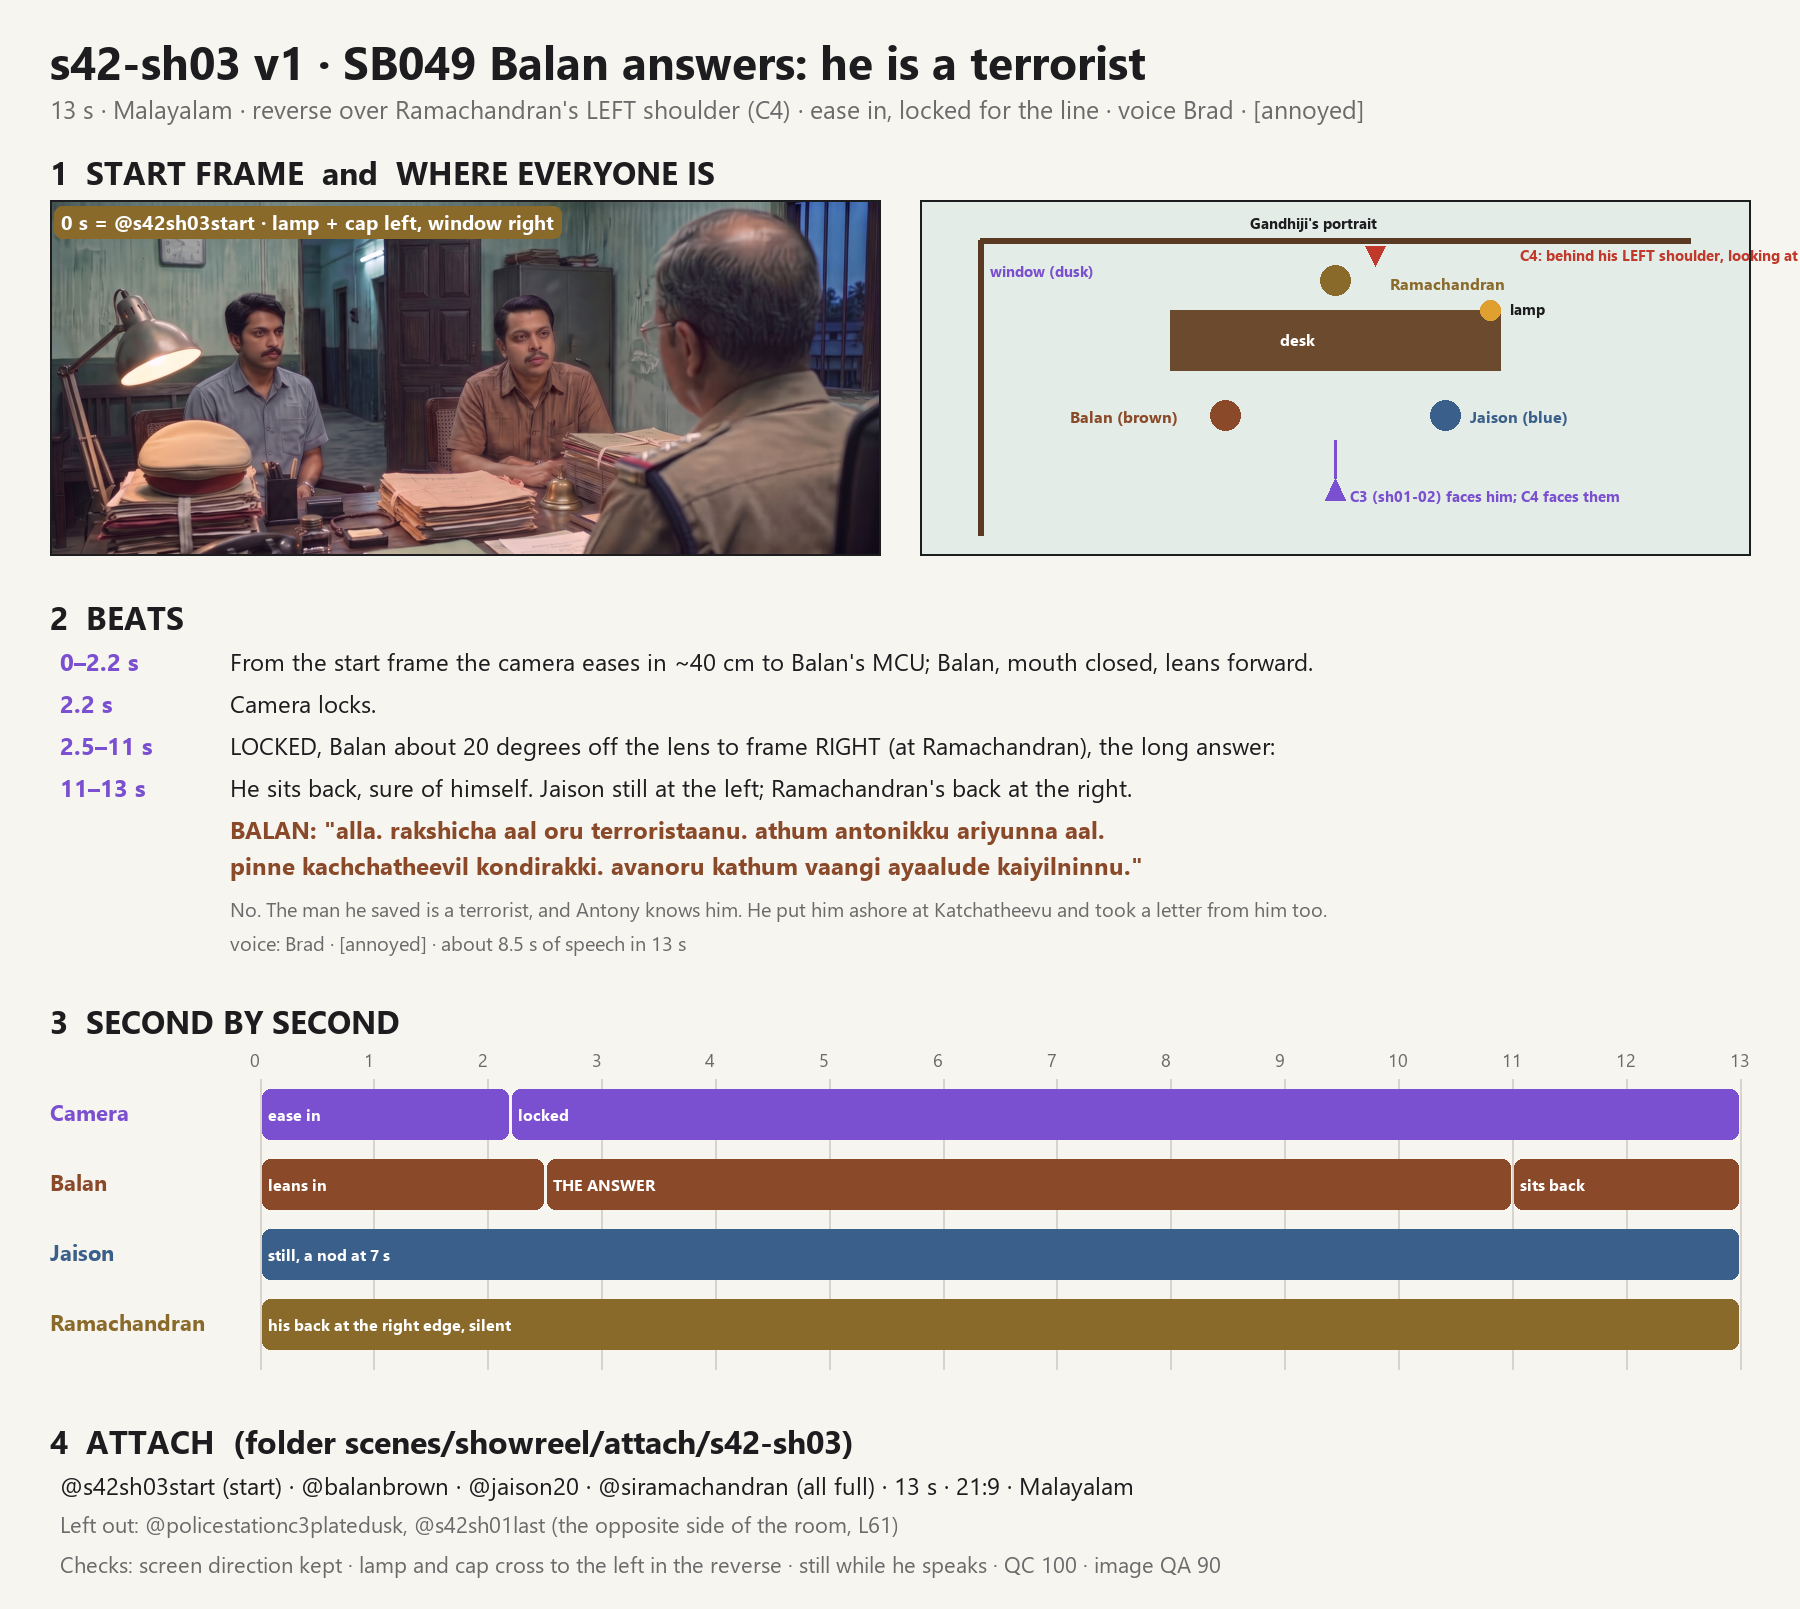
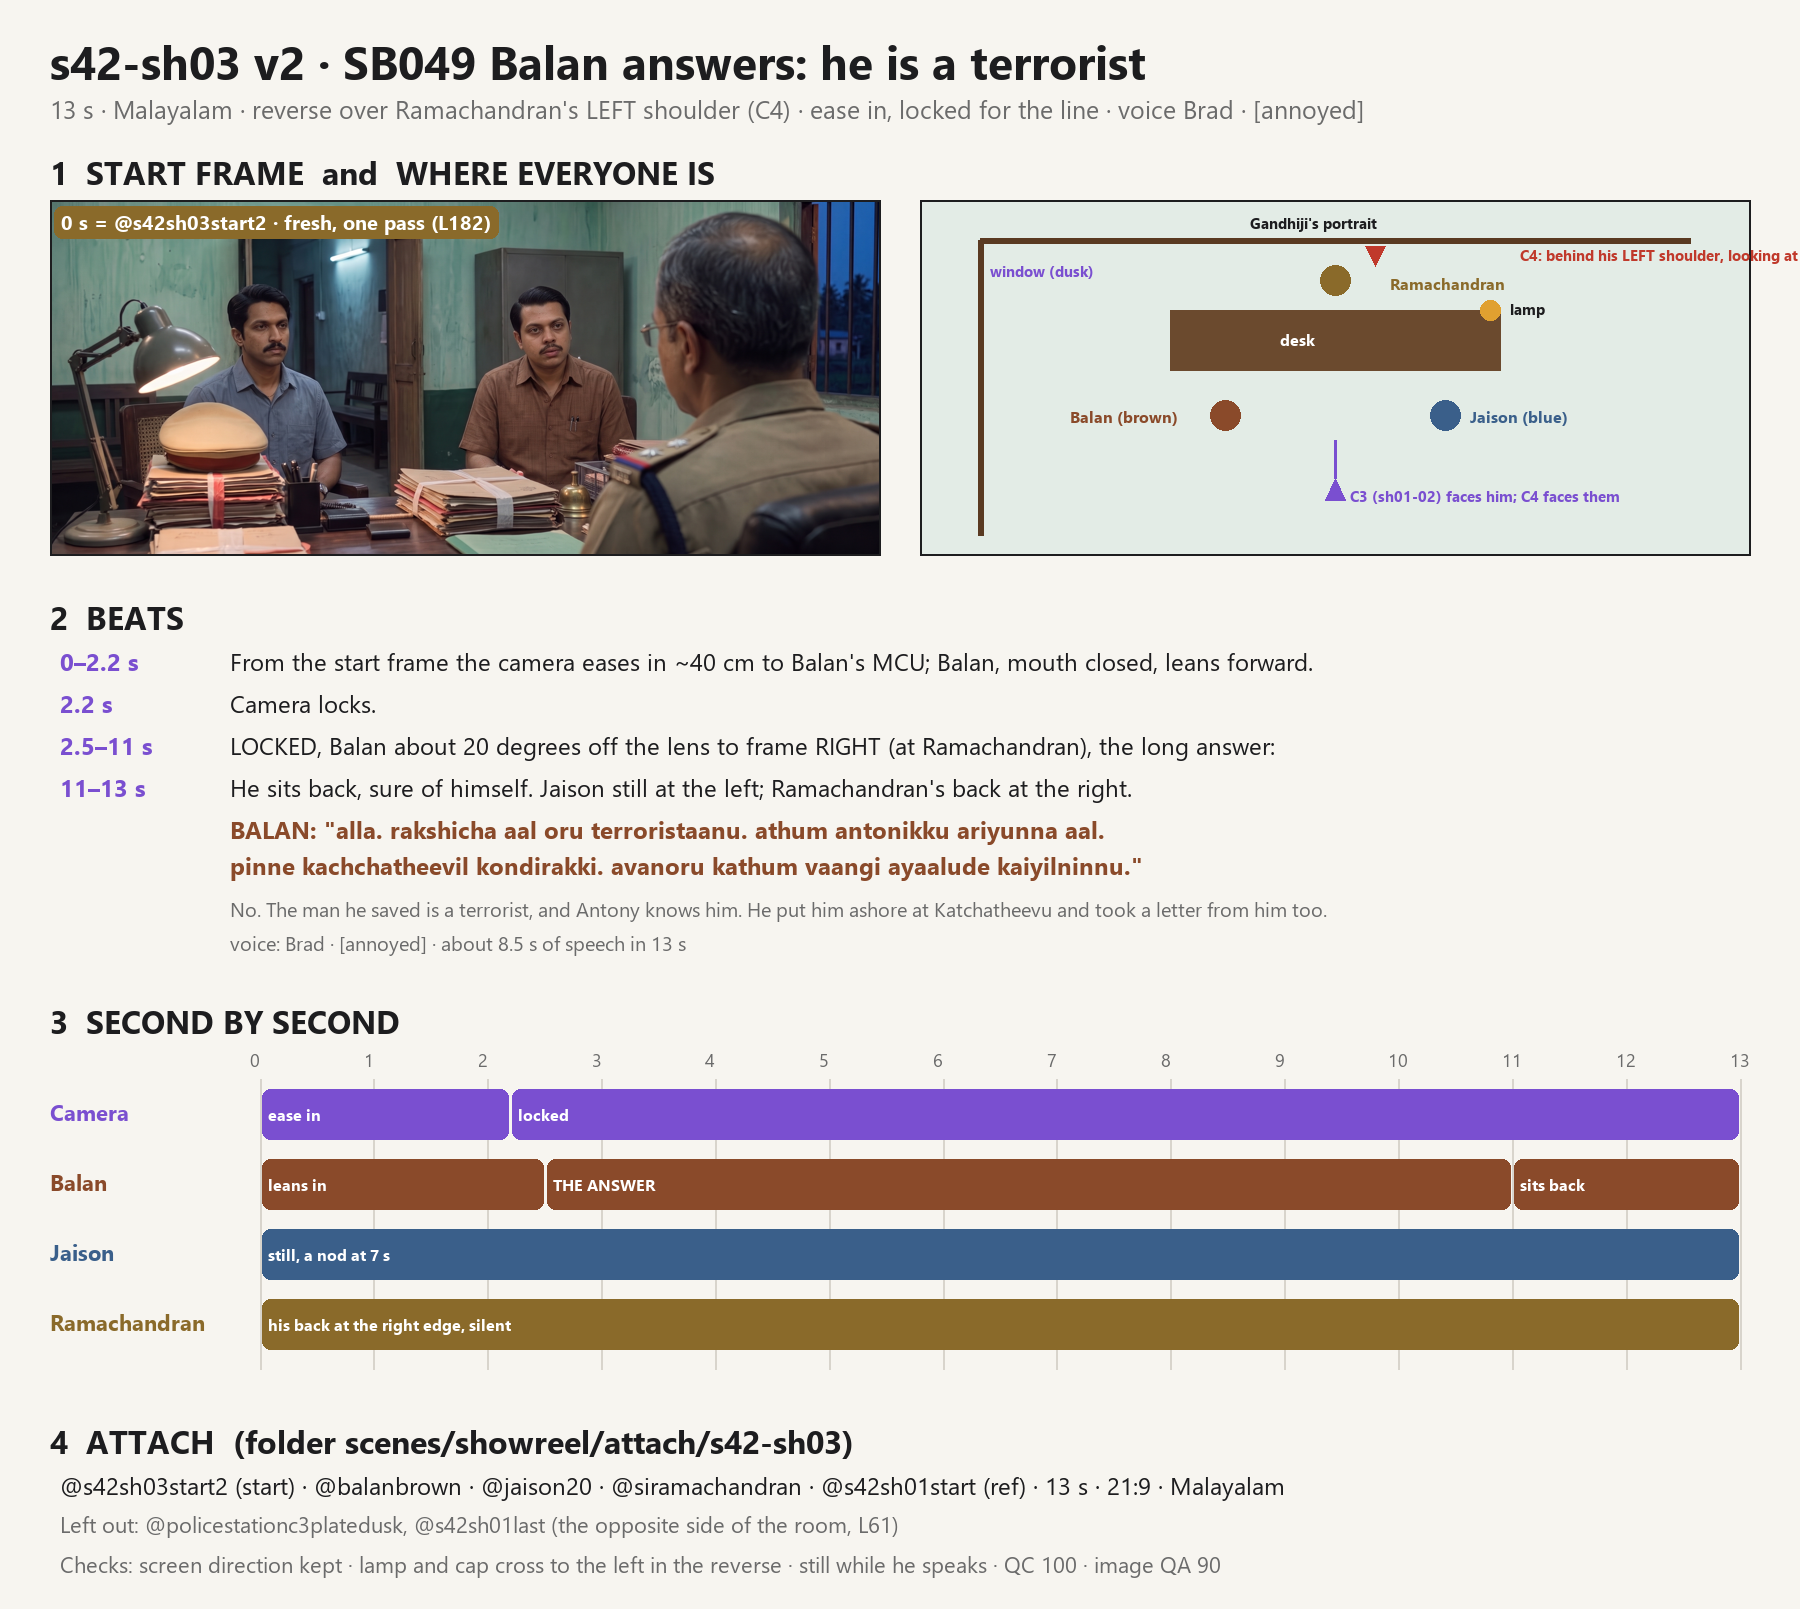
Ranjith: shot: s42-sh03 v2 (fresh start frame, first-shot reference)

Changed region(s): [[0.0311, 0.1243, 0.4978, 0.3418], [0.1244, 0.9012, 0.7156, 0.9323], [0.1556, 0.0311, 0.1867, 0.0622]]

diff --git a/tools/shotsheets/s42-sh03.py b/tools/shotsheets/s42-sh03.py
@@ -12,17 +12,17 @@ def tag(xy, text, col, f=None):
     f = f or F(20, True); x, y = xy; tw = d.textlength(text, font=f)
     d.rounded_rectangle([x - 6, y - 4, x + tw + 8, y + 28], 8, fill=col); d.text((x + 1, y - 2), text, font=f, fill="white")
 
-d.text((50, 30), "s42-sh03 v1 · SB049 Balan answers: he is a terrorist", font=F(46, True), fill=INK)
+d.text((50, 30), "s42-sh03 v2 · SB049 Balan answers: he is a terrorist", font=F(46, True), fill=INK)
 d.text((50, 92), "13 s · Malayalam · reverse over Ramachandran's LEFT shoulder (C4) · ease in, locked for the line · voice Brad · [annoyed]", font=F(25), fill=GREY)
 
 y0 = 150
 d.text((50, y0), "1  START FRAME  and  WHERE EVERYONE IS", font=F(32, True), fill=INK)
 pw = 830; ph = int(pw / 2.333)
-src = "approved/sb049-station/s42-sh03-start.png"
-p = "scenes/showreel/" + src if os.path.exists("scenes/showreel/" + src) else "scenes/showreel/image-qa/candidates/s42-sh03-start.png"
+src = "approved/sb049-station/s42-sh03-start2.png"
+p = "scenes/showreel/" + src if os.path.exists("scenes/showreel/" + src) else "scenes/showreel/image-qa/candidates/s42-sh03-start2.png"
 a = Image.open(p).convert("RGB").resize((pw, ph))
 im.paste(a, (50, y0 + 50)); d.rectangle([50, y0 + 50, 50 + pw, y0 + 50 + ph], outline=INK, width=2)
-tag((60, y0 + 60), "0 s = @s42sh03start · lamp + cap left, window right", RAM)
+tag((60, y0 + 60), "0 s = @s42sh03start2 · fresh, one pass (L182)", RAM)
 sx, sy, sw, sh = 920, y0 + 50, 830, ph
 d.rectangle([sx, sy, sx + sw, sy + sh], fill="#e3ece6", outline=INK, width=2)
 # room: back wall at top
@@ -72,7 +72,7 @@ for i, (lab, col, segs) in enumerate(rows):
 
 y3 = ty + 70 * len(rows) + 60
 d.text((50, y3), "4  ATTACH  (folder scenes/showreel/attach/s42-sh03)", font=F(32, True), fill=INK)
-d.text((60, y3 + 50), "@s42sh03start (start) · @balanbrown · @jaison20 · @siramachandran (all full) · 13 s · 21:9 · Malayalam", font=F(24), fill=INK)
+d.text((60, y3 + 50), "@s42sh03start2 (start) · @balanbrown · @jaison20 · @siramachandran · @s42sh01start (ref) · 13 s · 21:9 · Malayalam", font=F(24), fill=INK)
 d.text((60, y3 + 90), "Left out: @policestationc3platedusk, @s42sh01last (the opposite side of the room, L61)", font=F(22), fill=GREY)
 d.text((60, y3 + 130), "Checks: screen direction kept · lamp and cap cross to the left in the reverse · still while he speaks · QC 100 · image QA 90", font=F(22), fill=GREY)
 im = im.crop((0, 0, W, y3 + 190))

diff --git a/scenes/showreel/s42-sh03.md b/scenes/showreel/s42-sh03.md
@@ -1,6 +1,7 @@
-# s42-sh03 · SB049 (Ref 42A) — Balan's answer: "he is a terrorist" · 13 s · v1
-Status: **ready (Ranjith, 2026-11-24)** · Malayalam dialogue · start image `@s42sh03start` (new reverse angle, camera C4: over Ramachandran's left shoulder onto Balan)
+# s42-sh03 · SB049 (Ref 42A) — Balan's answer: "he is a terrorist" · 13 s · v2
+Status: **ready v2 (Ranjith, 2026-11-24)** · Malayalam dialogue · start image `@s42sh03start2` (new reverse angle, camera C4: over Ramachandran's left shoulder onto Balan)
 Created by: Ranjith
+v2 (Ranjith, 2026-11-24): the v1 take looked like a cartoon ("very unnatureal and more of a cartton") because its start frame had four chained edit passes (L182). New start frame `@s42sh03start2` made fresh in ONE pass from the first shot `@s42sh01start` and the three character sheets, every fix in one prompt (lamp and cap at the left, the cap's back to the camera, window and his shoulder at the right); `@s42sh01start` attached as the continuity reference (station rule). `@s42sh03start` (v1) is retired.
 Ask (Ranjith, 2026-11-24): "next shot". Camera: **Use this camera move** (reverse over Ramachandran's LEFT shoulder, Balan in MCU looking frame right, Jaison soft at the left; the wall behind them with the office door open to the corridor).
 Story: SB049, line 2. Balan corrects the SI: the man Antony saved is a terrorist, Antony knew him, put him ashore at Katchatheevu, and took a letter from him.
 Screen direction: Ramachandran looked frame LEFT at Balan (camera C3); in this reverse Balan looks frame RIGHT at Ramachandran; the camera stays on the same side of the line (behind Ramachandran's LEFT shoulder). The window (on Ramachandran's right side) is at the frame RIGHT; the desk lamp and his cap (on his left side, at the frame right in sh01 and sh02) cross to the frame LEFT in this reverse.
@@ -10,11 +11,11 @@ MANG: alla. rakshicha aal oru terroristaanu. athum antonikku ariyunna aal. pinne
 EN: No. The man he saved is a terrorist, and Antony knows him. He put him ashore at Katchatheevu and took a letter from him too.
 Voice: Balan = **Brad** (voices/VOICES.md). Emotion (one for the shot): [annoyed] — he corrects the SI, impatient, sure of himself.
 Lessons applied: L172 (dialogue time budget: about 8.5 s of speech in a 13 s clip, about 65%), L180 (no room plate from the same angle; this side of the room exists only in the start frame), dialogue block verbatim, eyes off the lens, screen direction kept, checklist 195 and 201.
-Attach: `@s42sh03start` (start image), `@balanbrown` (full, the speaker), `@jaison20` (full, soft at the left), `@siramachandran` (full, his back and left shoulder at the right edge). No end image. Remove every other attachment (L88). **13 s.** 21:9, Malayalam.
+Attach: `@s42sh03start2` (start image), `@balanbrown` (full, the speaker), `@jaison20` (full, soft at the left), `@siramachandran` (full, his back and left shoulder at the right edge), `@s42sh01start` (reference for continuity: room, props, light). No end image. Remove every other attachment (L88). **13 s.** 21:9, Malayalam.
 Left out: `@policestationc3platedusk` and `@s42sh01last` (the opposite side of the room, L61).
-Image QA of @s42sh03start: 90/100. The reverse of the approved office: Ramachandran's khaki shoulder and head at the right with the window and lamp on his side; Balan (brown, pens) right of centre and Jaison (blue, thick moustache) at the left in the cane chairs; the wall behind them with the plank door open to a tube-lit corridor, a bench, a steel almirah, a wall clock (plain numbers, no words). Ramachandran's khaki cap rests on the tall file stack at the LEFT end of the desk beside the lit lamp (added on Ranjith's note: "There should be a cap on the file"; lamp and cap moved to the frame left so they match their side of the desk in sh01 and sh02 across the reverse; the cap turned so its back faces the camera, Ranjith: "cap is facing this side but previous shot it was not"); Balan's mouth closed. Note: after several edits the walls carry a slightly over-sharpened texture; the video re-renders the room. Flag fixed in the prompt: Balan is framed waist-up (the camera eases to his MCU before the line).
+Image QA of @s42sh03start2: 91/100. One fresh pass (L182): real skin texture, lime-wash grain and natural light; Ramachandran's khaki back and left shoulder at the RIGHT with the dusk window; the lit lamp and his cap (back to camera, badge toward the visitors) on the tall file stack at the LEFT; Balan (brown, pens) right of centre and Jaison (blue) at the left, both mouths closed; the office door open to the tube-lit corridor, bench, steel almirah. Balan is framed a little wider than an MCU (the camera eases in before the line).
 PROMPT QA — s42-sh03 v1 · Score 100/100 · Ready (qc_panel.py 100). Screen direction kept (Balan looks frame right); camera still while he speaks; dialogue block verbatim; about 65% of the clip is speech (L172).
-Platform: upload `approved/sb049-station/s42-sh03-start.png` as `@s42sh03start`.
+Platform: upload `approved/sb049-station/s42-sh03-start2.png` as `@s42sh03start2`.
 Attach folder: `scenes/showreel/attach/s42-sh03/`
 Storyboard: `storyboards/s42-sh03-clear.png` (never attached)
 
@@ -31,10 +32,11 @@ Light: the warm desk lamp about 3200K from the frame LEFT lighting Balan's and J
 FIRST FRAME (0.0s): exactly the start frame: over Ramachandran's left shoulder at the right edge, the lit lamp and his cap on the file stack at the lower left, Balan in the brown shirt in the right-hand cane chair looking frame right at Ramachandran, mouth closed, Jaison in the blue shirt in the left chair, the open door to the corridor between them.
 
 ACTIVE REFERENCES
-@s42sh03start (start frame, 0.0s): the exact first frame: the reverse of the SI's office over Ramachandran's left shoulder: Balan right of centre, Jaison at the left, the open door to the lit corridor behind them, the lit lamp and the cap on the files at the left, the window at the right. Everything starts exactly as in this image.
+@s42sh03start2 (start frame, 0.0s): the exact first frame: the reverse of the SI's office over Ramachandran's left shoulder: Balan right of centre, Jaison at the left, the open door to the lit corridor behind them, the lit lamp and the cap on the files at the left, the window at the right. Everything starts exactly as in this image.
 @balanbrown (full, 0.0s–13.0s): Balan, the only speaker: about 35, oiled black hair with a side parting, a thin moustache, acne marks, the brown half-sleeve shirt with two pens in the left pocket, the white mundu. A native Malayalam speaker from the Kollam coast; a quick, eager, slightly nasal male voice. 100% matches the reference.
 @jaison20 (full, 0.0s–13.0s): Jaison at the left, a little soft: thick black swept-back hair, a thick black moustache, the muted-blue half-sleeve shirt, a thin gold chain, a steel watch on his left wrist. He never speaks. 100% matches the reference.
 @siramachandran (full, 0.0s–13.0s): Ramachandran seen only from behind at the RIGHT edge: greying side-parted hair, the arm of his glasses, the khaki uniform with the starred epaulette and the red-and-blue strip on his left shoulder. He never speaks in this shot and his face is never seen. 100% matches the reference.
+@s42sh01start (reference for continuity, 0.0s–13.0s): the first shot of the scene: the same room, the same desk props, cap, lamp, files and dusk light, seen from the other side; take the room, the props, the light and the costumes from it; it is never shown as its own shot. 100% matches the reference.
 
 BALAN'S ANSWER (most important)
 From 0.0s to 2.2s Balan, mouth closed, sits up and leans forward toward Ramachandran, his forearms on his knees. From 2.5s to 11.0s he says the one Malayalam line to Ramachandran in a medium close-up, his face about a third of the frame height, turned toward the camera about 20 degrees off the lens to frame RIGHT (toward Ramachandran's shoulder), head steady while he speaks, mouth fully visible, lit softly and evenly by the lamp from the left. In the pauses between his sentences he gives one short nod and one small open-hand gesture toward the letter on the desk. From 11.0s to 13.0s he sits back, waiting, sure of himself. Jaison at the left watches, still, and gives one small nod at 7.0s.
@@ -84,7 +86,7 @@ CONSTRAINTS
 The shot starts exactly on the start frame and the room never changes. Exactly three people in the room: Balan and Jaison in the cane chairs facing the camera, Ramachandran's back and left shoulder at the right edge. Balan stays in the brown shirt, Jaison in the blue shirt, Ramachandran in khaki with his back to the camera; his cap stays on the file stack at the left beside the lamp, its back toward the camera, the visor and badge never turned to the camera. While Balan speaks his is the only face speaking; Jaison's mouth stays closed. The camera moves only from 0.0s to 2.2s; it is still while Balan speaks. Nobody comes through the door. Nothing fades in or out. No readable words on any paper or anywhere in the room. No English words, no subtitles. No cut, no zoom.
 
 POSITIVE LOCKS
-Starts on the start frame. The camera eases in to Balan's medium close-up by 2.2s and locks. Exactly one Malayalam line, Balan's, spoken once in Malayalam from 2.5s to 11.0s, his face about 20 degrees off the lens to frame right, toward Ramachandran. Jaison still at the left; Ramachandran's back at the right. Runs the full 13 seconds.
+Starts on the start frame. Real photographic skin, walls and light, never painted or cartoon-like. The camera eases in to Balan's medium close-up by 2.2s and locks. Exactly one Malayalam line, Balan's, spoken once in Malayalam from 2.5s to 11.0s, his face about 20 degrees off the lens to frame right, toward Ramachandran. Jaison still at the left; Ramachandran's back at the right. Runs the full 13 seconds.
 
 INTENT: When @balanbrown says "അല്ല. രക്ഷിച്ച ആൾ ഒരു ടെററിസ്റ്റാണ്. അതും ആന്റണിക്ക് അറിയുന്ന ആൾ. പിന്നെ കച്ചത്തീവിൽ കൊണ്ടിറക്കി. അവനൊരു കത്തും വാങ്ങി അയാളുടെ കൈയിൽനിന്ന്." let it be a small man's eager betrayal, told to a policeman as if it were a public duty.
 ```

diff --git a/scenes/showreel/attach/s42-sh03/README.md b/scenes/showreel/attach/s42-sh03/README.md
@@ -1,2 +1,2 @@
-# s42-sh03 attach
-@s42sh03start (start) · @balanbrown · @jaison20 · @siramachandran (all full). 13 s, 21:9, Malayalam. Voice: Brad.
+# s42-sh03 v2 attach
+@s42sh03start2 (start) · @balanbrown · @jaison20 · @siramachandran (all full) · @s42sh01start (REF: reference for continuity, never the start image). 13 s, 21:9, Malayalam. Voice: Brad.
